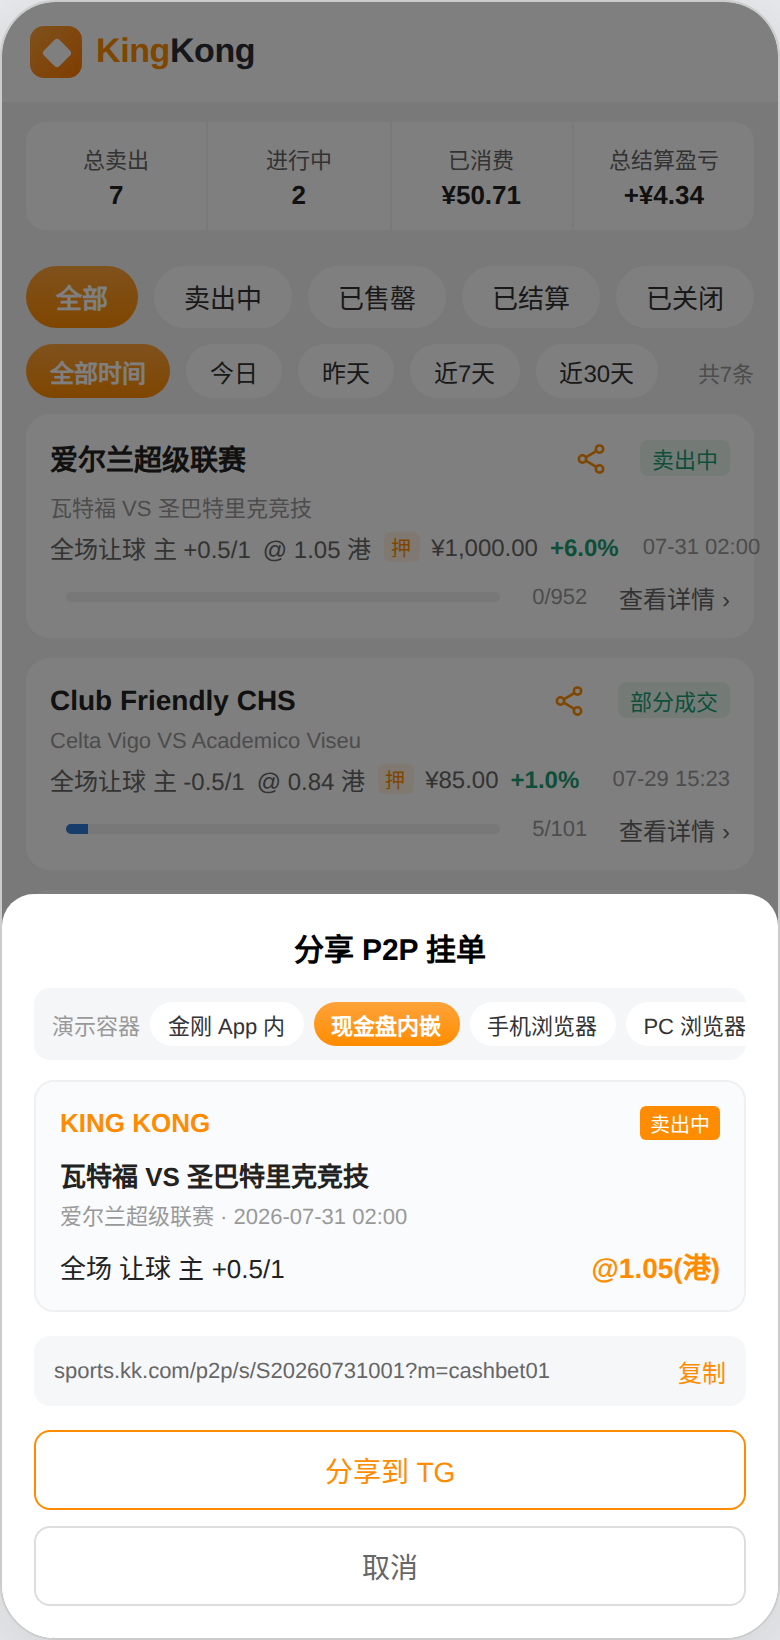
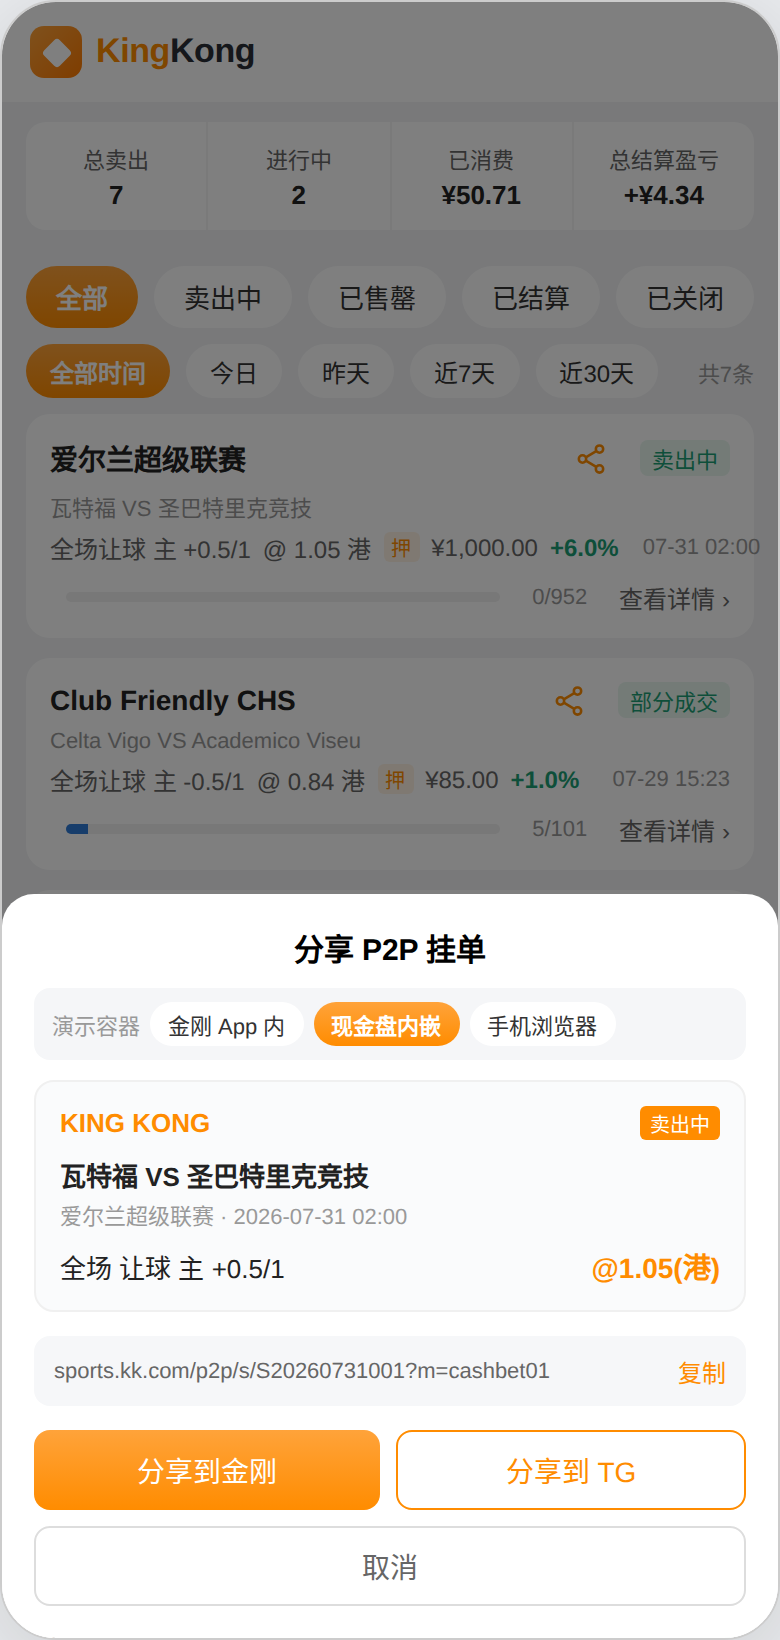
fix: 现金盘容器同样注入IMSDK展示分享到金刚; 去掉二维码与PC容器; 原型 v6.7 + 分享文档 V1.4

diff --git a/h5.html b/h5.html
@@ -3,7 +3,7 @@
 <head>
 <meta charset="UTF-8">
 <meta name="viewport" content="width=device-width,initial-scale=1">
-<title>P2P 开盘坐庄 · 交互原型 v6.6(分享环境)</title>
+<title>P2P 开盘坐庄 · 交互原型 v6.7</title>
 <style>
 *{margin:0;padding:0;box-sizing:border-box;font-family:-apple-system,"PingFang SC","Microsoft YaHei",sans-serif;-webkit-tap-highlight-color:transparent}
 body{background:#e8eaed;display:flex;justify-content:center;align-items:flex-start;min-height:100vh;padding:20px 0}
@@ -2058,14 +2058,13 @@ function removeItem(i){
 const SHARE_HOST='sports.kk.com/p2p/s/';
 /* ═════ 运行容器与商户归属 ═════
    kk     = 金刚 App 内的体育 H5(宿主注入 IM SDK)
-   cash   = 现金盘站点内嵌体育 H5
-   mobile = 手机浏览器直接打开体育 H5
-   pc     = PC 浏览器 */
+   cash   = 现金盘站点内嵌体育 H5(宿主注入 IM SDK)
+   mobile = 手机浏览器直接打开体育 H5(无 IM SDK) */
 let ENV='kk';
-const ENVS=[['kk','金刚 App 内'],['cash','现金盘内嵌'],['mobile','手机浏览器'],['pc','PC 浏览器']];
-const MERCHANTS={kk:'kksport',cash:'cashbet01',mobile:'kksport',pc:'kksport'};
+const ENVS=[['kk','金刚 App 内'],['cash','现金盘内嵌'],['mobile','手机浏览器']];
+const MERCHANTS={kk:'kksport',cash:'cashbet01',mobile:'kksport'};
 function curMerchant(){return MERCHANTS[ENV]||'kksport'}
-function hasIMSDK(){return ENV==='kk'}                 /* 仅金刚容器注入 IM SDK */
+function hasIMSDK(){return ENV==='kk'||ENV==='cash'}   /* 金刚与现金盘容器均注入 IM SDK */
 function canShareKK(){return hasIMSDK()}               /* 以容器判定替代"是否已安装" */
 function canShareTG(){return true}                     /* TG 走网页链接,未安装落 TG 网页版 */
 function setEnv(e){ENV=e;const d=shareResolve();if(d)shareOpenSheet();}
@@ -2134,7 +2133,7 @@ function shareOpenSheet(){
   const btnRow=btns.length
     ?`<div class="row" style="gap:8px">${btns.join('')}</div>`
     :`<div class="hint" style="margin:0">当前环境不支持直接分享,请复制链接后手动发送。</div>`;
-  const pcTip=ENV==='pc'?`<div class="row" style="gap:8px;margin-top:8px"><button class="btn btn-g grow" onclick="toast('二维码(示意):手机扫码打开挂单')">生成二维码</button></div>`:'';
+
   cfm(`<h3 style="font-size:15px;text-align:center;margin-bottom:10px">分享 P2P 挂单</h3>
     ${envRow}
     <div style="background:#FAFBFC;border:1px solid #f0f0f0;border-radius:10px;padding:12px;margin-bottom:12px">
@@ -2149,7 +2148,7 @@ function shareOpenSheet(){
       <span style="font-size:11px;color:#666;word-break:break-all" class="grow">${shareUrl(d.bid)}</span>
       <span style="color:#FF8C00;font-size:12px;cursor:pointer;margin-left:8px" class="nowrap" onclick="toast('链接已复制')">复制</span>
     </div>
-    ${btnRow}${pcTip}
+    ${btnRow}
     <button class="btn btn-g" style="width:100%;margin-top:8px" onclick="closeCfm()">取消</button>`);
 }
 /* 分享到金刚:金刚容器内调 IM SDK 生成 webview 消息体 */

diff --git a/index.html b/index.html
@@ -34,7 +34,7 @@ a.card:hover{transform:translateY(-2px);box-shadow:0 4px 14px rgba(0,0,0,.10)}
   <div class="sec">本期 · P2P 下注流程</div>
   <a class="card" href="./h5.html">
     <div class="ico i1">📱</div>
-    <div class="t"><b>C 端 H5 交互原型 v6.6</b><span>赛事大厅 / 盘口详情 / 购物车（买入·串关·卖出）/ 注单确认 / 买单卖单赛果我的 / 挂单分享</span></div>
+    <div class="t"><b>C 端 H5 交互原型 v6.7</b><span>赛事大厅 / 盘口详情 / 购物车（买入·串关·卖出）/ 注单确认 / 买单卖单赛果我的 / 挂单分享</span></div>
     <div class="arrow">›</div>
   </a>
   <a class="card" href="https://github.com/alili199886-web/kk-p2p-proto/blob/main/prd-bet.md">
@@ -51,7 +51,7 @@ a.card:hover{transform:translateY(-2px);box-shadow:0 4px 14px rgba(0,0,0,.10)}
   <div class="sec">本期 · P2P 挂单分享</div>
   <a class="card" href="https://github.com/alili199886-web/kk-p2p-proto/blob/main/prd-share.md">
     <div class="ico i4">🔗</div>
-    <div class="t"><b>挂单分享功能需求说明文档 V1.3</b><span>Markdown · 容器与按钮展示规则 / 商户归属落地 / 降级方案 / 验收标准</span></div>
+    <div class="t"><b>挂单分享功能需求说明文档 V1.4</b><span>Markdown · 三类容器与按钮展示规则 / 商户归属落地 / 降级方案 / 验收标准</span></div>
     <div class="arrow">›</div>
   </a>
   <a class="card" href="https://github.com/alili199886-web/kk-p2p-proto/blob/main/impl-share.md">

diff --git a/impl-share.md b/impl-share.md
@@ -4,7 +4,7 @@
 > - 体育 H5：`Vue 3 + TypeScript + Vite`
 > - 金刚 App / IM SDK：`im2-link-jssdk`
 >
-> 体育侧无原生 App，只有 H5。H5 会运行在四类容器中：金刚 App WebView、现金盘站点内嵌、手机浏览器、PC 浏览器。只有金刚 App 容器注入了 IM SDK，因此分享能力按容器分级，详见 2.0。
+> 体育侧无原生 App，只有 H5。H5 会运行在三类容器中：金刚 App WebView、现金盘站点内嵌、手机浏览器。前两类容器由宿主注入了 IM SDK，手机浏览器没有，因此分享能力按容器分级，详见 2.0。
 
 ---
 
@@ -46,15 +46,14 @@
 | 容器 | IM SDK | 分享到金刚 | 分享到 TG | 复制链接 | 商户归属 |
 |---|---|---|---|---|---|
 | 金刚 App WebView | 有 | 展示，调 `IM.share` | 展示 | 展示 | 金刚体育默认商户 |
-| 现金盘站点内嵌 | 无 | **不展示** | 展示 | 展示 | 该现金盘商户 |
+| 现金盘站点内嵌 | 有 | 展示，调 `IM.share` | 展示 | 展示 | 该现金盘商户 |
 | 手机浏览器 | 无 | **不展示** | 展示 | 展示 | 按进入来源判定 |
-| PC 浏览器 | 无 | **不展示** | 展示 | 展示 + 二维码 | 按进入来源判定 |
 
 **按钮展示判定规则：**
 
-- 「分享到金刚」以**容器判定**代替"是否已安装"：仅当宿主注入了 IM SDK（即运行在金刚 App 内）时展示。此时用户必然已安装金刚通讯，不存在唤起失败；非金刚容器一律不展示该按钮；
+- 「分享到金刚」以**容器判定**代替"是否已安装"：仅当宿主注入了 IM SDK（金刚 App 容器与现金盘内嵌容器均已注入）时展示。此时用户必然已安装金刚通讯，不存在唤起失败；未注入 SDK 的容器（手机浏览器）不展示该按钮；
 - 「分享到 TG」常驻展示。TG 分享走网页链接 `https://t.me/share/url?url={分享链接}&text={标题}`，未安装 TG 时浏览器会打开 TG 网页版并由 TG 自带下载引导，不会出现白屏或无响应；
-- 「复制链接」在所有容器常驻，是最终兜底；PC 浏览器额外提供二维码，便于手机扫码打开；
+- 「复制链接」在所有容器常驻，是最终兜底；
 - 某容器下两个分享按钮都不展示时，分享层提示「当前环境不支持直接分享，请复制链接后手动发送」。
 
 > **技术约束**：浏览器不提供查询"某 App 是否已安装"的接口，无法在点击前预判安装状态。因此「未安装则不展示按钮」通过上述容器判定实现；对 TG 采用"网页链接兜底"而非隐藏按钮，因为该方式在未安装时依然能完成分享。
